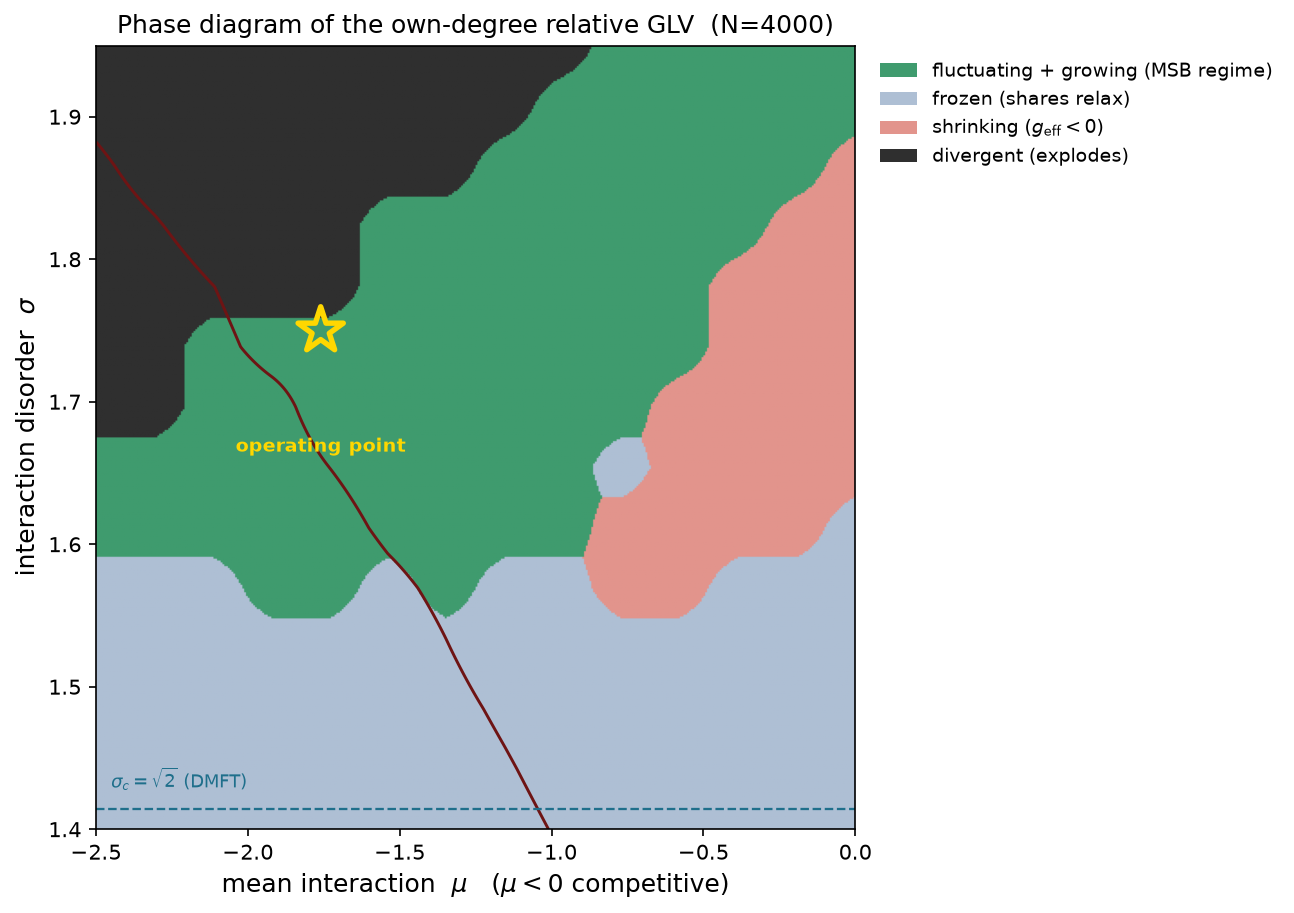
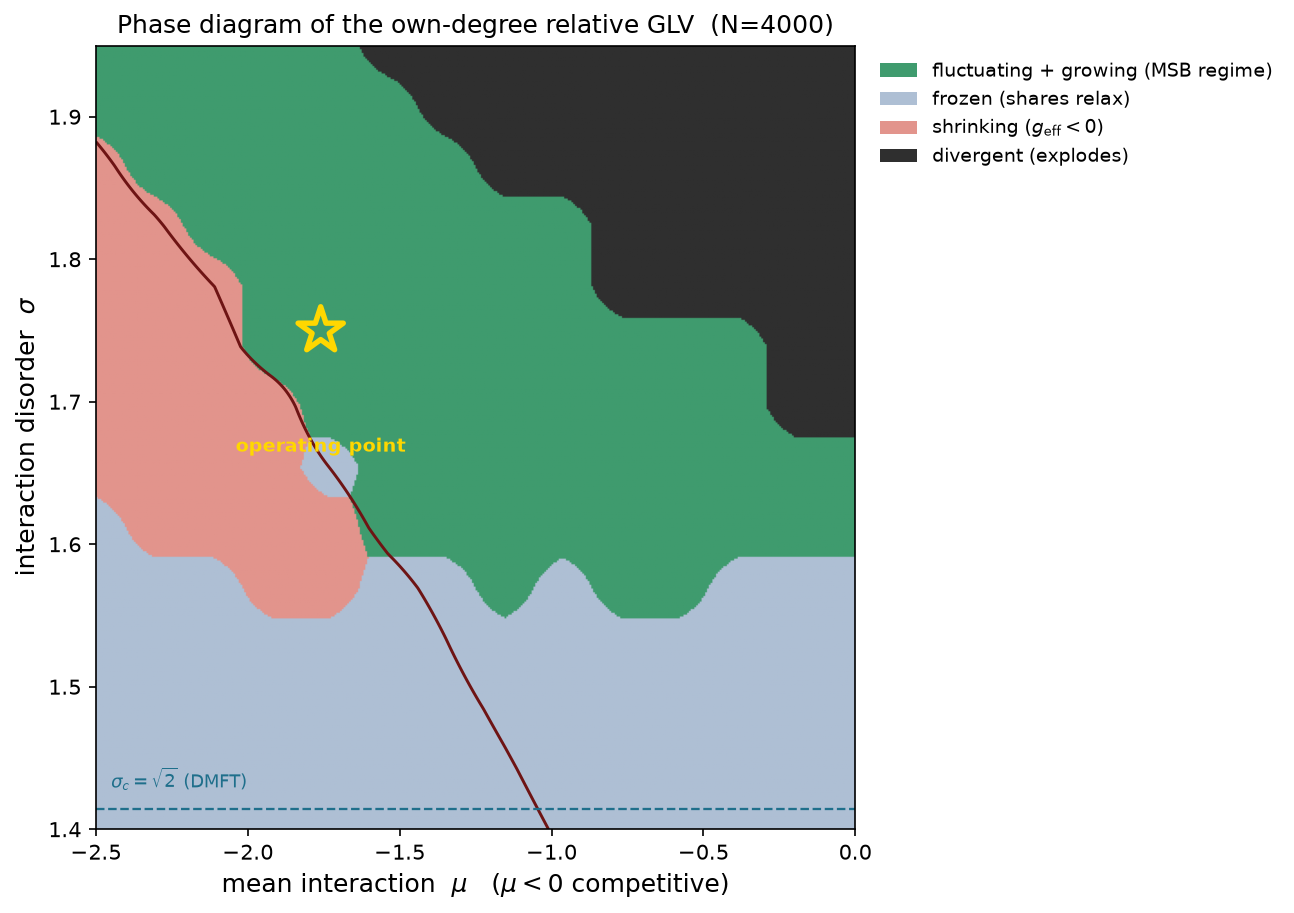
fix(phase): correct mu-axis mirror in the fine phase plot
The mu<0 conversion negated the axis, the g_eff=0 contour and the operating-point
star, but not the filled regime image -> phases were mirrored relative to the axis
(shrinking shown on the wrong, low-competition side). Flip the image columns so
mu<0 (competitive) is on the left: shrinking (left) now hugs the g_eff=0 line,
divergent moves to the high-sigma/low-competition (top-right) corner.

Changed region(s): [[0.0618, 0.0307, 0.6801, 0.7054]]

diff --git a/scripts/phase_owndeg_fine.py b/scripts/phase_owndeg_fine.py
@@ -122,7 +122,7 @@ def plot():
     reg = ind.argmax(0)
     COL = np.array([matplotlib.colors.to_rgb(c)            # frozen, fluctuating, shrinking, divergent
                     for c in ["#aebfd4", "#3f9b6e", "#e2948c", "#2f2f2f"]])
-    img = COL[reg]
+    img = COL[reg][:, ::-1]                                # flip mu axis: mu<0 (competitive) on the left
 
     fig, ax = plt.subplots(figsize=(8.8, 6.2))
     ax.imshow(img, origin="lower", aspect="auto", extent=[-mus[-1], -mus[0], sig[0], sig[-1]])
